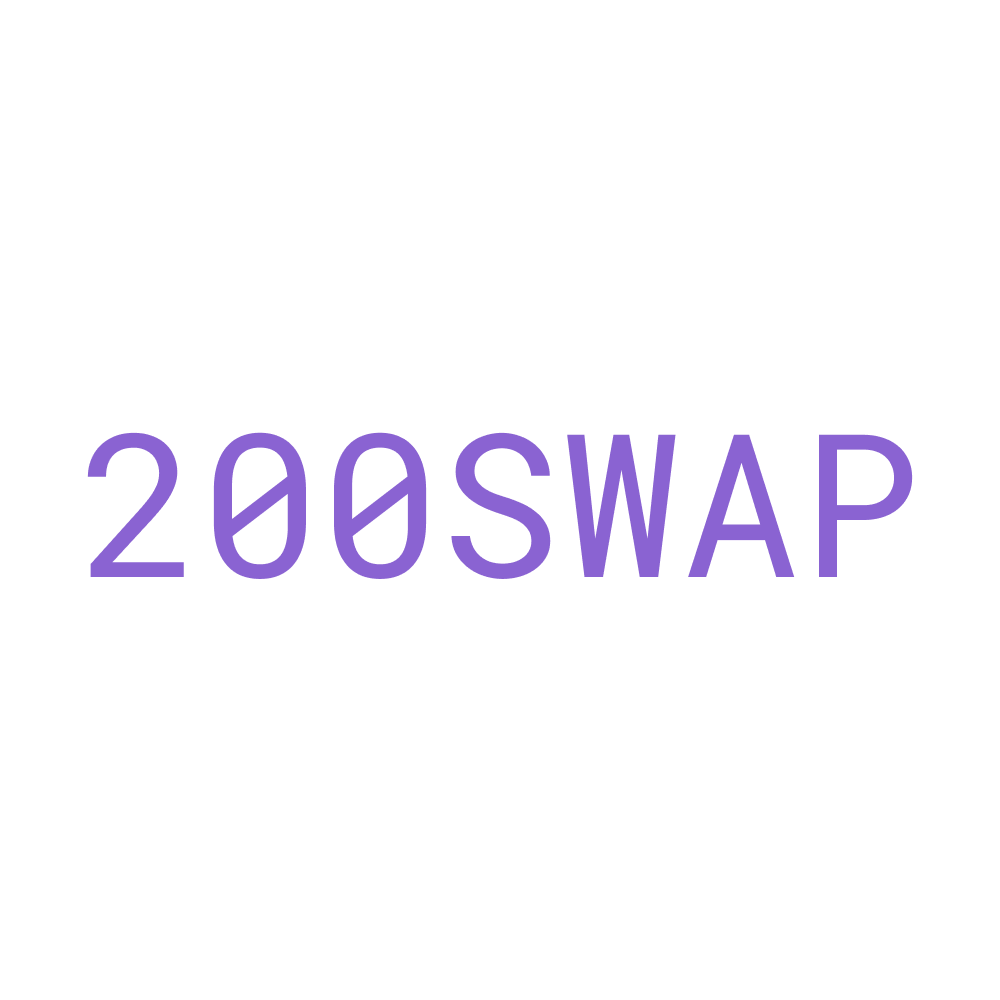
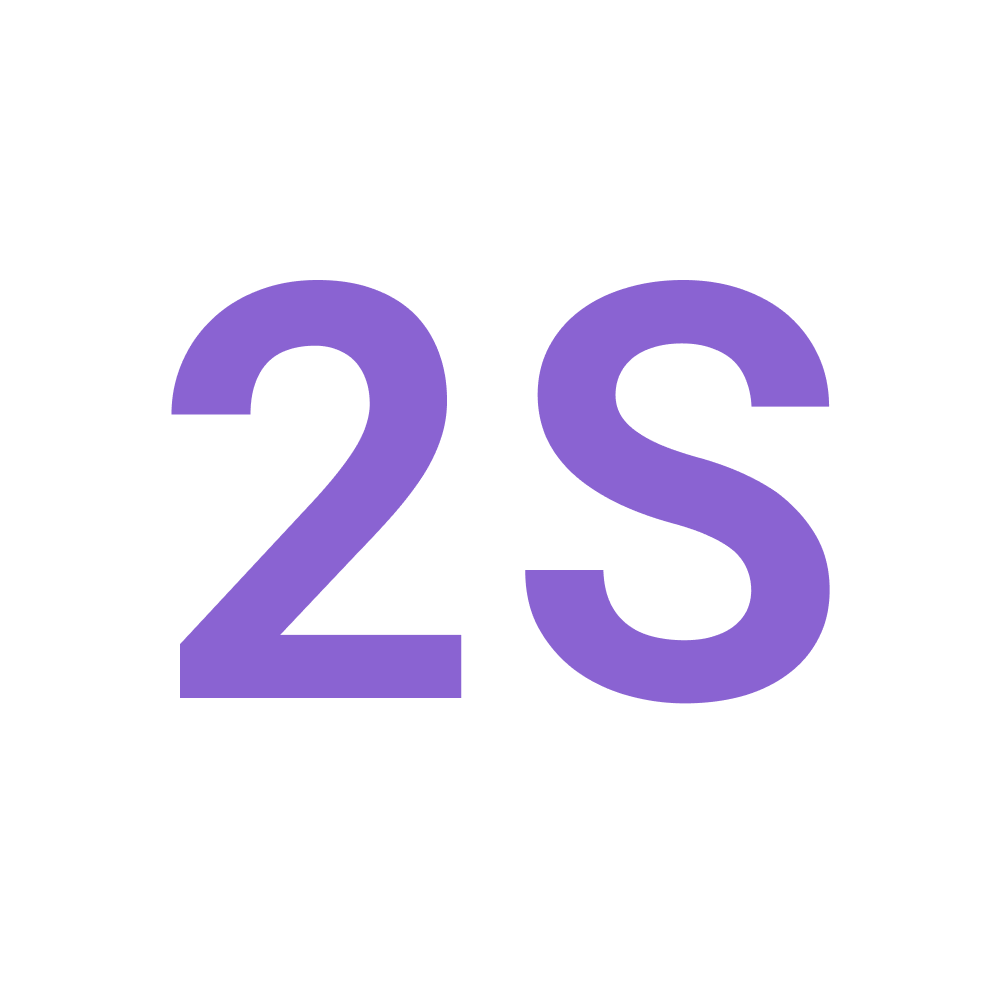
GITBOOK-7: No subject

Changed region(s): [[0.093, 0.279, 0.93, 0.713]]

diff --git a/ecosystem-and-partnerships/brandings.md b/ecosystem-and-partnerships/brandings.md
@@ -6,6 +6,19 @@ description: Simple is the best
 
 ## Logo Kits
 
-<div><figure><img src="../.gitbook/assets/circle_1000x1000.png" alt=""><figcaption></figcaption></figure> <figure><img src="../.gitbook/assets/rectangle_1440x400.png" alt=""><figcaption></figcaption></figure> <figure><img src="../.gitbook/assets/square_1000x1000.png" alt=""><figcaption></figcaption></figure></div>
+### Primary
 
-<div><figure><img src="../.gitbook/assets/circle_white_1000x1000.png" alt=""><figcaption></figcaption></figure> <figure><img src="../.gitbook/assets/rectangle_white_1440x400.png" alt=""><figcaption></figcaption></figure> <figure><img src="../.gitbook/assets/square_white_1000x1000.png" alt=""><figcaption></figcaption></figure></div>
+<div><figure><img src="../.gitbook/assets/circle_1000x1000.png" alt=""><figcaption></figcaption></figure> <figure><img src="../.gitbook/assets/square_1000x1000.png" alt=""><figcaption></figcaption></figure></div>
+
+### White
+
+<div><figure><img src="../.gitbook/assets/circle_white_1000x1000.png" alt=""><figcaption></figcaption></figure> <figure><img src="../.gitbook/assets/square_white_1000x1000.png" alt=""><figcaption></figcaption></figure></div>
+
+## Key Usage Rules
+
+1. **Use the Official Color Only**\
+   The primary logo color must always be **#8A63D2**. Do not change, replace, or alter this color in any version of the logo.
+2. **Do Not Modify the Logo**\
+   The logo must remain in its original form. No stretching, recoloring, adding effects, cropping, rotating, or altering proportions.
+3. **Ensure Clear Space & Visibility**\
+   Keep enough clear space around the logo to maintain readability, and always place it on a clean, high-contrast background for maximum visibility.

diff --git a/core-features/flux-engine.md b/core-features/flux-engine.md
@@ -14,16 +14,23 @@ Flux is the main fuel of the Flux Engine.
 
 Use cases of Flux:
 
-* Will be converted to our govenance token and used for CASHBACK
+* Based for CASHBACK [2S Token](../2s-token/2s-is-clanker-token.md) from Flux Vault.
+* Based to airdrop for Flux Leaderboard, the top of user who has Flux.
 
 ## Rules
+
+{% hint style="info" %}
+When the Flux Engine launches at first, we will publish '**invite codes'** on our social channels, and each code can only be used once.
+
+After you join Flux Engine, you’ll receive your own '**referral code'**, which you can share with your friends so you can earn referral Flux.
+{% endhint %}
 
 * You need a reference code to join.
 * Swaps between $MON and $WMON don’t count for Flux rewards.
 
 ## Referral System
 
-<figure><img src="../.gitbook/assets/Screenshot 2025-11-21 at 14.47.48.png" alt=""><figcaption></figcaption></figure>
-
 * You earn 20% Flux from your direct referrals.
 * You earn 5% Flux from their referrals too.
+
+<figure><img src="../.gitbook/assets/Screenshot 2025-11-21 at 14.47.48.png" alt="" width="563"><figcaption></figcaption></figure>

diff --git a/2s-token/2s-is-clanker-token.md b/2s-token/2s-is-clanker-token.md
@@ -1,0 +1,28 @@
+---
+description: 2S token launched via Clanker with transparent information
+---
+
+# 2S is Clanker Token
+
+<figure><img src="../.gitbook/assets/square_1000x1000 (1).png" alt="" width="375"><figcaption></figcaption></figure>
+
+## Token Information
+
+* Symbol: 2S
+* Name: 200Swap
+* Total Supply: 100,000,000,000&#x20;
+* Deploy via [https://clanker.world](https://clanker.world/)&#x20;
+
+## Launch Init Config
+
+* Init market cap: 1,000,000 MON, about $32k with MON price $0.032
+* Fee: 1%
+* Prevent sniper in: 15s
+* Dev bundle: 50,000 MON, used for future development purposes.
+
+## Fee Structure
+
+* 50% to Team Treasury by **both tokens: 2S and MON,** used for development fund.
+* 50% to Flux Vault **all swapped to 2S token**, used to distribute to [Flux Engine](../core-features/flux-engine.md) every week.
+
+<figure><img src="../.gitbook/assets/image.png" alt="" width="563"><figcaption></figcaption></figure>

diff --git a/README.md b/README.md
@@ -1,18 +1,18 @@
 ---
 description: >-
-  The Clanker cashback machine — Swap weird, earn back, repeat. Every token.
-  Every trade. Every degen gets paid.
+  200Swap is the Clanker cashback machine — Swap weird, earn back, repeat. Every
+  token. Every trade. Every degen gets paid.
 cover: .gitbook/assets/gitbook_1990x480.png
 coverY: 0
 ---
 
 # Welcome & Overview
 
-## Welcome
-
-**RyuHara | 200Swap Dev:**&#x20;
+{% hint style="success" %}
+**RyuHara | 200Swap Dev:**
 
 _"I'm here to build a simple DeFi product on top Clanker ecosystem, with a strong community vibe and real **CASHBACK** for users. That's our main business"._
+{% endhint %}
 
-## Overview
+## Business Model
 

diff --git a/SUMMARY.md b/SUMMARY.md
@@ -12,9 +12,9 @@
 * [Flux Engine](core-features/flux-engine.md)
 * [Trading Fee](core-features/trading-fee.md)
 
-## $TWO Token
+## 2S Token
 
-* [Tokenomics](usdtwo-token/tokenomics.md)
+* [2S is Clanker Token](2s-token/2s-is-clanker-token.md)
 
 ## Ecosystem & Partnerships
 
@@ -28,4 +28,4 @@
 
 ## Join the Community
 
-* [Socials](join-the-community/socials.md)
+* [One Page Information](join-the-community/one-page-information.md)

diff --git a/ecosystem-and-partnerships/our-partners.md b/ecosystem-and-partnerships/our-partners.md
@@ -1,2 +1,7 @@
+---
+description: Official partners of 200Swap
+---
+
 # Our Partners
 
+To be updated.

diff --git a/join-the-community/one-page-information.md b/join-the-community/one-page-information.md
@@ -1,0 +1,4 @@
+# One Page Information
+
+{% embed url="https://linktr.ee/200swap" %}
+
